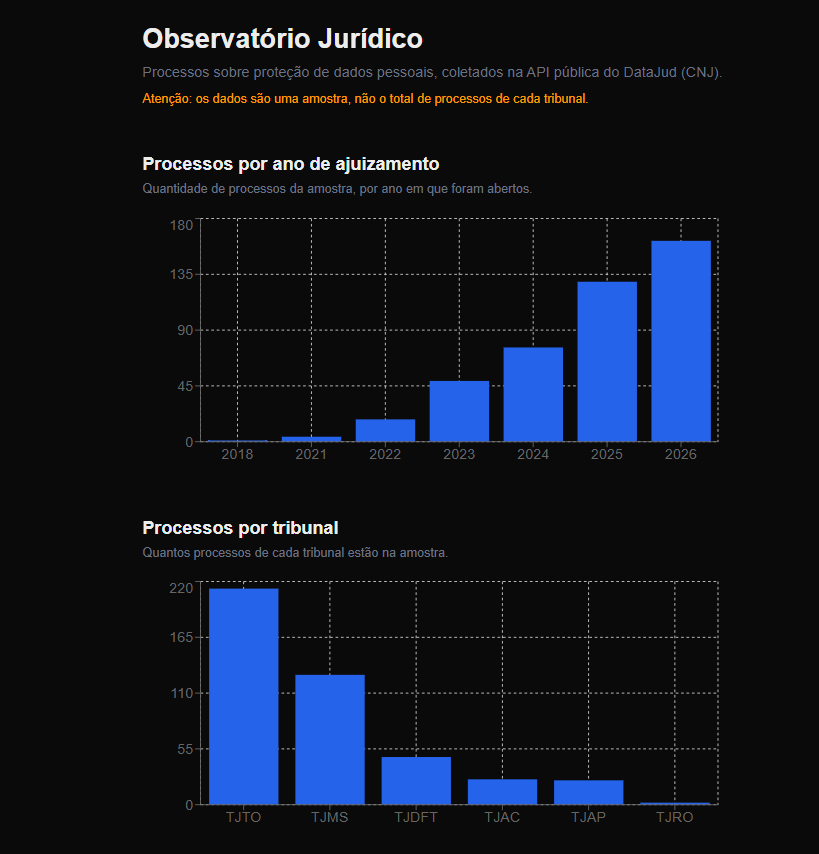
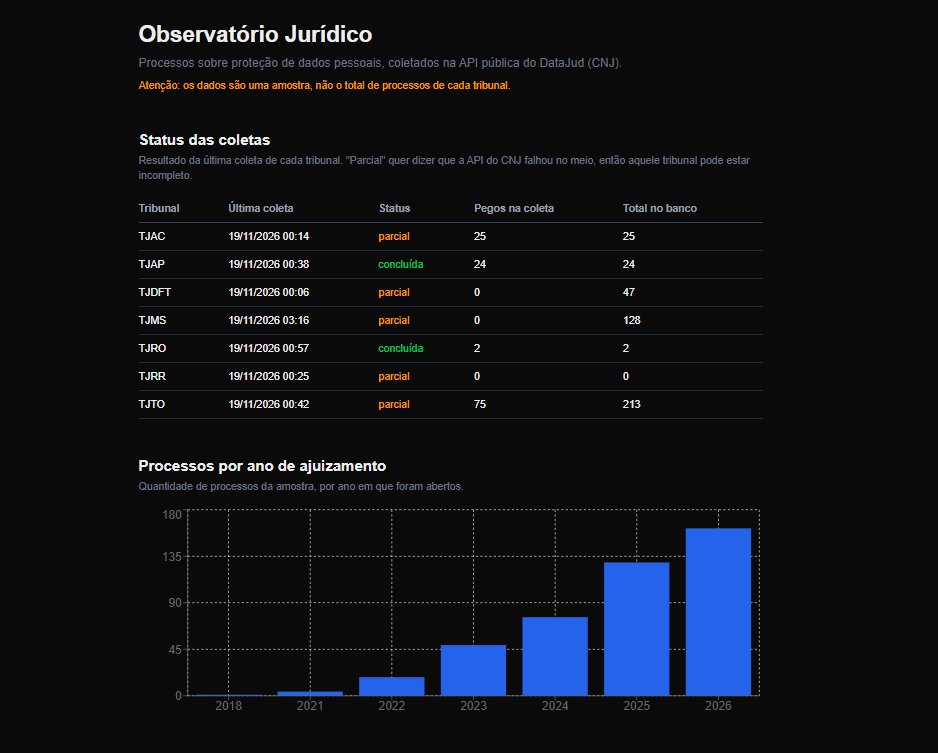
docs: atualiza prints do dashboard no README

diff --git a/README.md b/README.md
@@ -3,7 +3,7 @@
 Pipeline de dados que coleta, organiza e analisa decisões judiciais brasileiras sobre **proteção de dados pessoais (LGPD)**, usando duas fontes públicas: a API do DataJud (CNJ) e o Portal de Dados Abertos do STJ.
 
 ![Dashboard do Observatório Jurídico](docs/dashboard.png)
-
+![Acórdãos do STJ por ano e por tema](docs/dashboard-stj.png)
 > Projeto de portfólio em desenvolvimento, feito para praticar engenharia de dados, bancos de dados e arquitetura de software.
 
 ## O que já funciona
